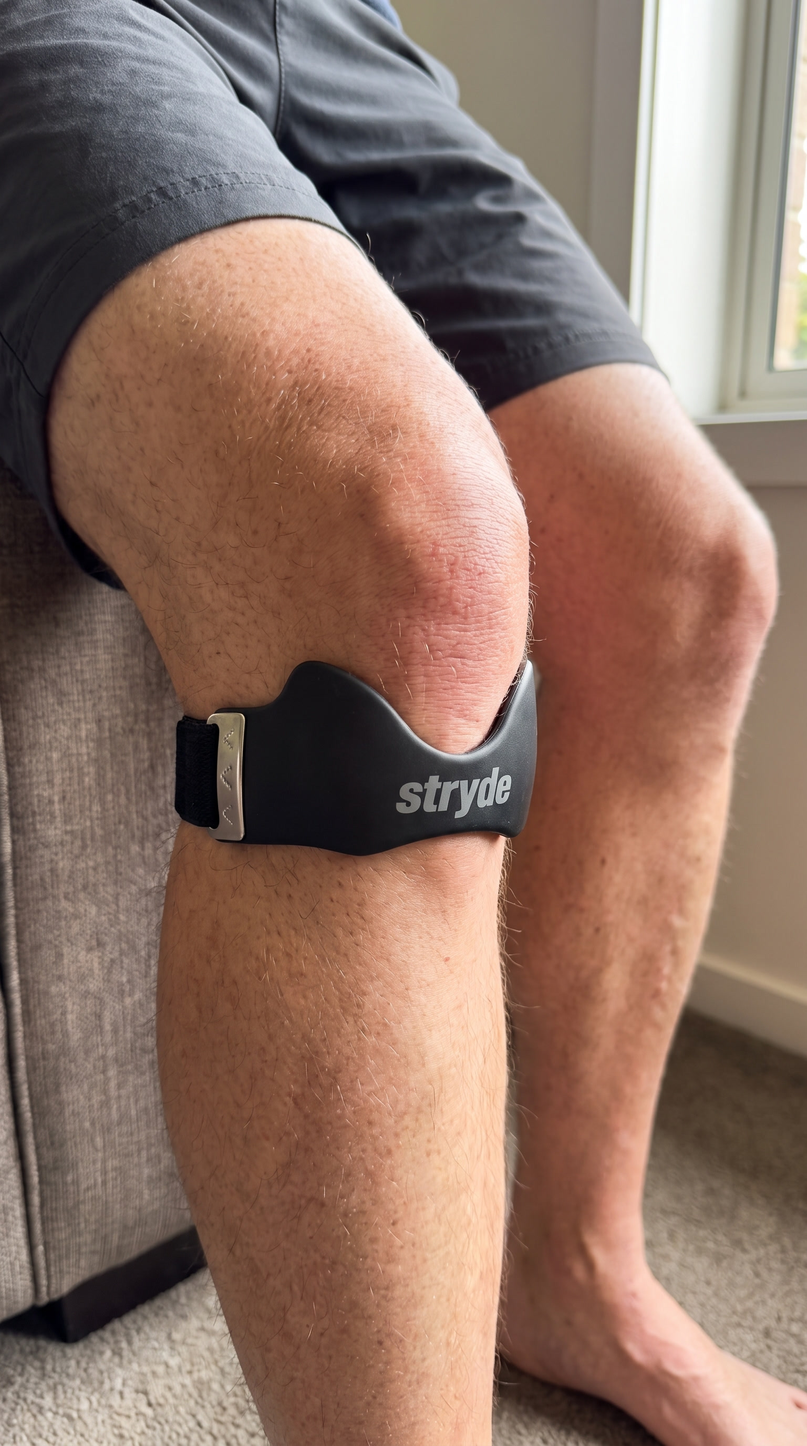
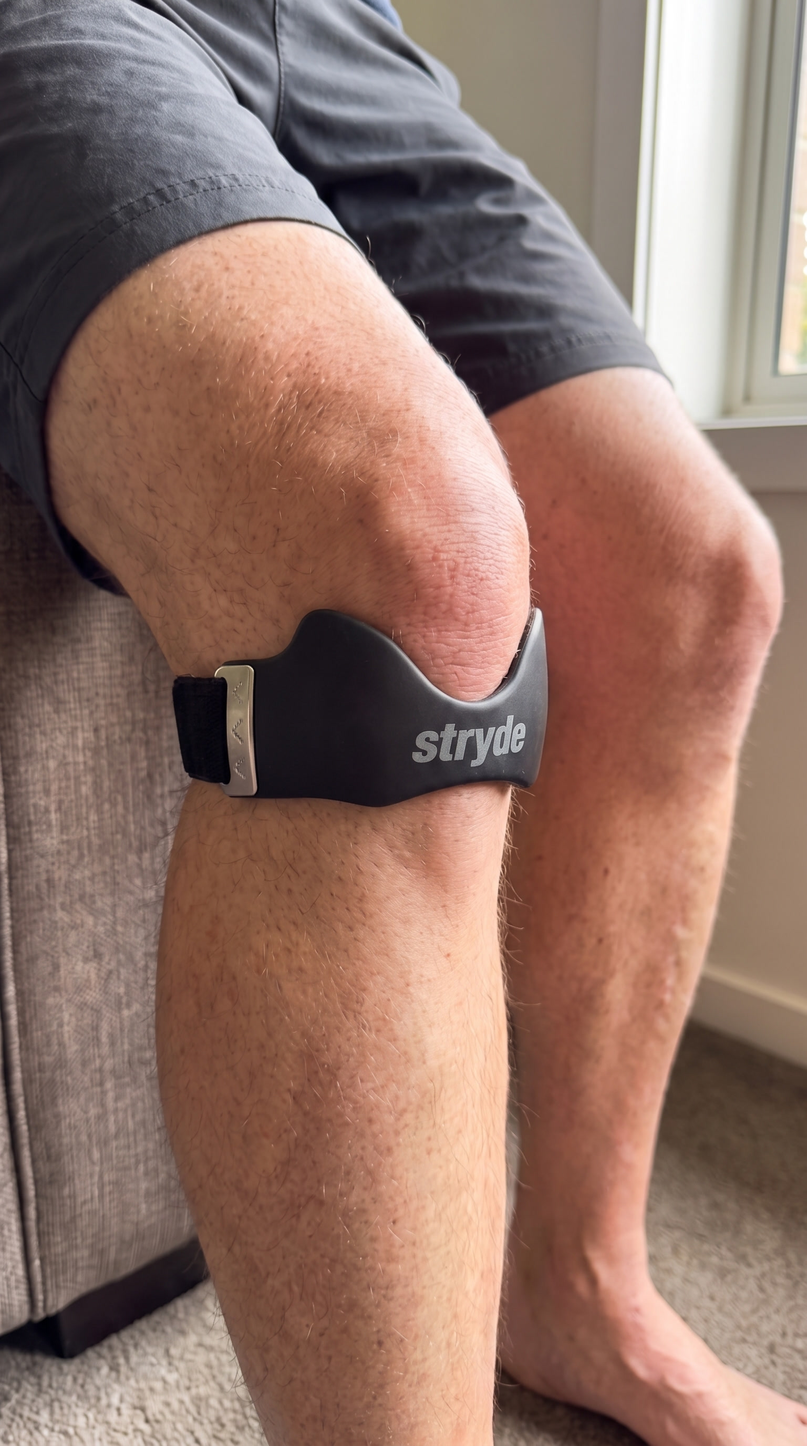
STRYDE sheet V7.49.16: bent-knee placement raised (user correction)
PLACE_BENT: shell sits high -- top edge level with the kneecap's lower pole,
notch pressed up into its underside, peaks to the lower half of its sides,
lower body only just onto the shin. NEG_BENT, ruling, checklist updated.
Bent worn reference replaced by an edit of d2d0124c with the strap raised
(8a8979ac), agent verdict USE.

Claude-Session: https://claude.ai/code/session_01DLW4YvPAi5KqofgHdwiNiF

diff --git a/products/stryde_product_sheet.py b/products/stryde_product_sheet.py
@@ -1,6 +1,6 @@
 #!/usr/bin/env python3
 """
-STRYDE PRECISION STRAP — PRODUCT SHEET, SINGLE FILE.  V7.49.15
+STRYDE PRECISION STRAP — PRODUCT SHEET, SINGLE FILE.  V7.49.16
 
 One artefact for §18 step 2. Attach this file alone when absorbing the
 product; it carries everything that step needs.
@@ -59,7 +59,7 @@ WHAT THE CHECKER CANNOT SEE, and these stay human checks:
 It measures proportion only. A frame that passes here can still be wrong.
 """
 
-VERSION = "7.49.15"
+VERSION = "7.49.16"
 
 # --------------------------------------------------------------- slots
 
@@ -178,12 +178,13 @@ ORIENT_C = (
 # opening between the kneecap and the notch, so the shell reads disengaged
 # from the thing it acts on. Stated positively as contact, per PLACE-LOCK.
 PLACE_BENT = (
-"With the knee bent the kneecap stands out as a distinct bulge and the shell sits directly beneath it: the "
-"concave notch cradles the underside of the kneecap along its whole curve, the flesh of the kneecap pressing "
-"into the notch and filling it with no gap of bare skin anywhere between them, and the two matching peaks "
-"rising either side to flank the lower part of the kneecap's sides -- never past its middle and never covering "
-"any of its face. The kneecap's own face stays completely uncovered above the "
-"shell, its outline reading in full. The shell's lower body carries on down onto the upper shin. A brushed "
+"With the knee bent the kneecap stands out as a distinct bulge and the shell sits HIGH, pushed well up the "
+"leg and tight against it: the shell's top edge sits level with the kneecap's lower pole, the concave notch "
+"pressed firmly up into the underside of the kneecap along its whole curve, the flesh of the kneecap filling "
+"it with no gap of bare skin anywhere between them, and the two matching peaks rising either side to flank "
+"the lower half of the kneecap's sides -- up to but never past its middle and never covering any of its face. "
+"The kneecap's own face stays completely uncovered above the shell, its outline reading in full. The shell's "
+"lower body reaches only just onto the top of the shin, never down the shin. A brushed "
 "chrome slide sits at each outer margin of the leg with the black coarse-knit band running back from it. The shell "
 "never rotates with the joint -- the notch stays under the kneecap through every angle of flexion.")
 
@@ -199,7 +200,8 @@ PLACE_PROFILE = (
 "it is a wrapped plate, never a flat panel stuck on the front.")
 
 NEG_BENT = (
-"no shell above the kneecap, no shell covering the kneecap, no gap of bare skin between the kneecap and the "
+"no shell above the kneecap, no shell covering the kneecap, no shell sitting low on the shin, no shell top edge "
+"below the kneecap's lower pole, no gap of bare skin between the kneecap and the "
 "notch, no kneecap sitting clear of the notch, no shell rotating with the joint, no shell sliding down the "
 "shin, no wordmark upside down, no wordmark rotated, no flat panel sitting proud of the leg, no shell edge "
 "lifting away from the skin, no second slide at the centre front")
@@ -475,17 +477,19 @@ PLACEMENT_REFERENCES = {
     },
     "bent": {
         "file": "stryde_refs/worn_bent.jpg",
-        "job_id": "d2d0124c-1ab8-4d41-ac95-9b825250493b",
+        "job_id": "8a8979ac-9eb1-4398-b41b-eea793a99a26",
         "higgsfield_media": "use the job_id as the medias value",
         "model_passed": "nano_banana_pro", "model_logged": "nano_banana_2",
         "attempt": ("3 of 3 -- attempt 1 (b0a3f260) REGENERATE Q2: too side-on, one peak, notch lost; "
                     "attempt 2 (970785f4) REGENERATE Q2: tall narrow U-shell, horn peaks, wrong type; "
-                    "attempt 3 USE with flags"),
+                    "attempt 3 (d2d0124c) USE with flags; V7.49.16 user correction 'higher' -> "
+                    "edit of d2d0124c (8a8979ac), strap raised only, USE"),
         "flags": ("near peak reads low at this yaw; band at the near slide reads smoother than the knit; "
                   "wordmark shifted toward the far peak by yaw"),
-        "reads": ("right knee bent about a right angle, seated, three-quarter from the front right; the notch "
-                  "cups the underside of the jutting kneecap, the far peak flanking its lower side, the face "
-                  "bare above; broad low shell wrapping the leg, slim chrome slide with three dotted chevrons "
+        "reads": ("right knee bent about a right angle, seated, three-quarter from the front right; the shell "
+                  "sits HIGH -- top edge level with the kneecap's lower pole, the notch pressed up into its "
+                  "underside, the far peak flanking the lower half of its side, the face bare above, the "
+                  "lower body only just onto the top of the shin; broad low shell wrapping the leg, slim chrome slide with three dotted chevrons "
                   "at the near margin, band running back round the calf. Attached on every bent-knee worn beat."),
     },
     "rear": {
@@ -637,7 +641,12 @@ RULINGS = {
         "is a WORN beat only (PLACEMENT_REFERENCES['bent']); a bent-knee seating beat "
         "was tested and dropped. Placement wording is per joint state: straight -- peaks "
         "no higher than the base of the kneecap's sides; bent -- peaks flanking the lower "
-        "part of its sides, never past its middle.",
+        "half of its sides, up to but never past its middle (V7.49.16).",
+    "bent_height":
+        "LOCKED V7.49.16 (user: 'the bent one should be higher'). On a bent knee the shell sits "
+        "HIGH: top edge level with the kneecap's lower pole, notch pressed up into its underside, "
+        "the lower body only just onto the top of the shin. Applies to every bent-knee worn "
+        "beat (PLACE_BENT, NEG_BENT) and to PLACEMENT_REFERENCES['bent'].",
     "fit_not_adjustment":
         "LOCKED V7.49.14 (user). A fit or 'adjustable' line is covered by the seating move -- "
         "closed strap, mid-shin, slid UP the front of the shin, seated on the patellar tendon "
@@ -864,8 +873,8 @@ CHECKLIST = [
     "leg silhouette at each outer edge",
     "bent-knee beats: the kneecap's flesh presses INTO the notch curve and "
     "fills it -- no gap between kneecap and notch",
-    "bent-knee beats: the shell's lower body carries on down onto the upper "
-    "shin, and the shell has not rotated with the joint",
+    "bent-knee beats: the shell sits HIGH -- top edge level with the kneecap's "
+    "lower pole, only just onto the top of the shin -- and has not rotated with the joint",
     "side and three-quarter beats: the shell reads as a WRAPPED plate "
     "following the leg's curve, wordmark still horizontal and readable, "
     "never a flat panel on the front",
